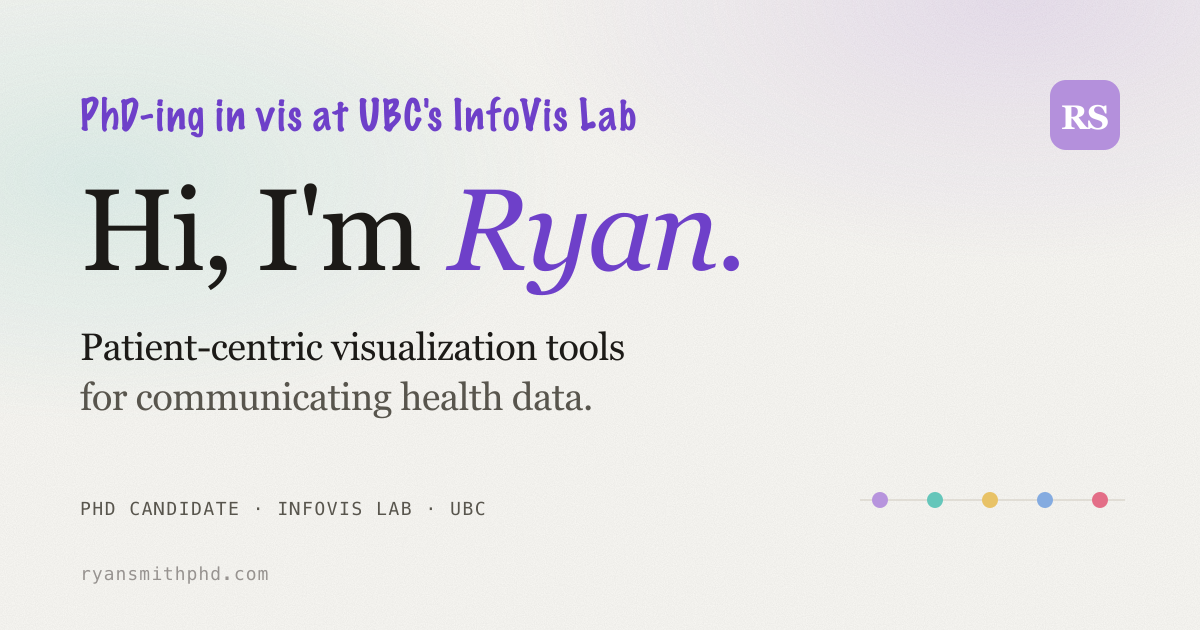
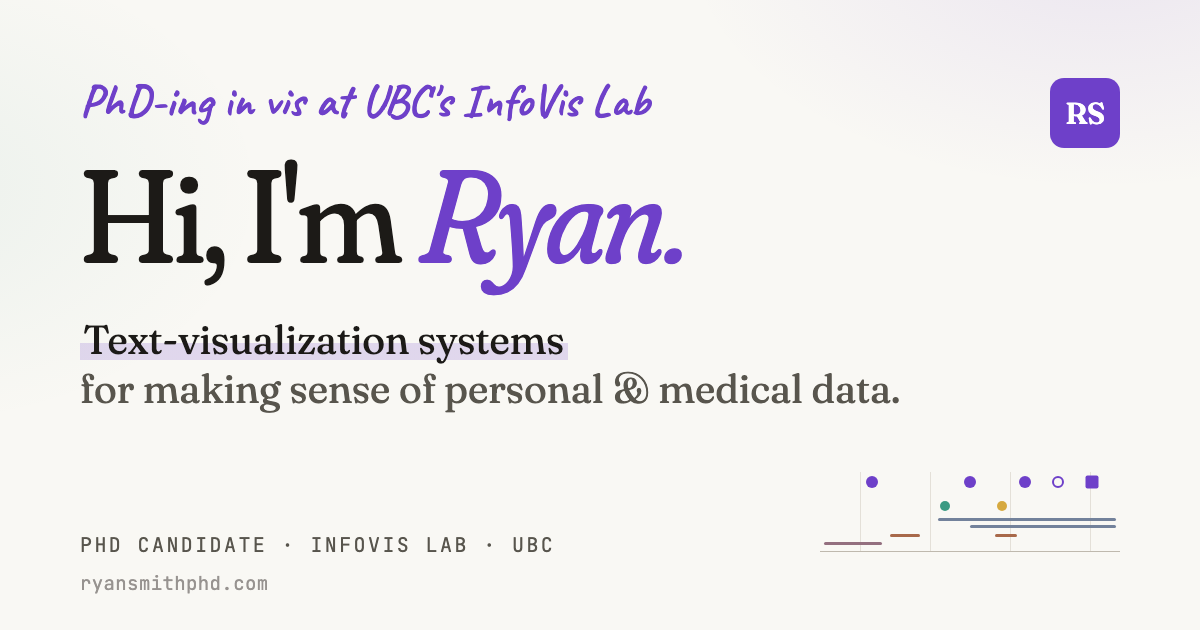
New share-preview image; graduation date May 2027
- Regenerate og-image.png with the current tagline ("Text-visualization
  systems for making sense of personal & medical data") and a mini
  swimlane motif; version the image URL so social sites refetch it
- Hero and CV now say May 2027
- Remove the stale, unreferenced og-image.svg

diff --git a/index.html b/index.html
@@ -22,16 +22,16 @@
 <meta property="og:url" content="https://ryansmithphd.com/" />
 <meta property="og:title" content="Ryan Smith — PhD Candidate, Data Visualization, UBC Computer Science" />
 <meta property="og:description" content="PhD candidate in Computer Science at UBC's InfoVis Lab. Visualizing text so people can make sense of their personal and medical data." />
-<meta property="og:image" content="https://ryansmithphd.com/og-image.png" />
+<meta property="og:image" content="https://ryansmithphd.com/og-image.png?v=2026-10" />
 <meta property="og:image:width" content="1200" />
 <meta property="og:image:height" content="630" />
-<meta property="og:image:alt" content="Ryan Smith — PhD Candidate at UBC's InfoVis Lab. Visualizing text so people can make sense of their personal and medical data." />
+<meta property="og:image:alt" content="Ryan Smith — PhD Candidate at UBC's InfoVis Lab. Text-visualization systems for making sense of personal and medical data." />
 
 <!-- Twitter / X -->
 <meta name="twitter:card" content="summary_large_image" />
 <meta name="twitter:title" content="Ryan Smith — PhD Candidate, Data Visualization, UBC Computer Science" />
 <meta name="twitter:description" content="PhD candidate in Computer Science at UBC's InfoVis Lab. Visualizing text so people can make sense of their personal and medical data." />
-<meta name="twitter:image" content="https://ryansmithphd.com/og-image.png" />
+<meta name="twitter:image" content="https://ryansmithphd.com/og-image.png?v=2026-10" />
 
 <!-- Structured data: Person schema helps Google recognize this as an
      identity page (side knowledge panel, disambiguation from other
@@ -43,7 +43,7 @@
   "@type": "Person",
   "name": "Ryan Smith",
   "url": "https://ryansmithphd.com/",
-  "image": "https://ryansmithphd.com/og-image.png",
+  "image": "https://ryansmithphd.com/og-image.png?v=2026-10",
   "jobTitle": "PhD Candidate in Computer Science",
   "description": "PhD candidate in Computer Science at the University of British Columbia, working in the InfoVis Lab on text visualization for personal and medical data and human-computer interaction.",
   "knowsAbout": [
@@ -115,7 +115,7 @@
           Basically, I try to capture the unstructured, personal ways people talk and think about their health. I want to give people just enough structure to actually explore and analyze their own data, while still preserving those interesting linguistic quirks and nuances that made it theirs in the first place.
         </p>
         <p class="hero__announce">
-          🎓 Expecting to graduate <strong>August 2027</strong> and already thinking about what's next. <a href="mailto:rs0914@cs.ubc.ca">Open to postdoc conversations.</a>
+          🎓 Expecting to graduate <strong>May 2027</strong> and already thinking about what's next. <a href="mailto:rs0914@cs.ubc.ca">Open to postdoc conversations.</a>
         </p>
       </div>
 
